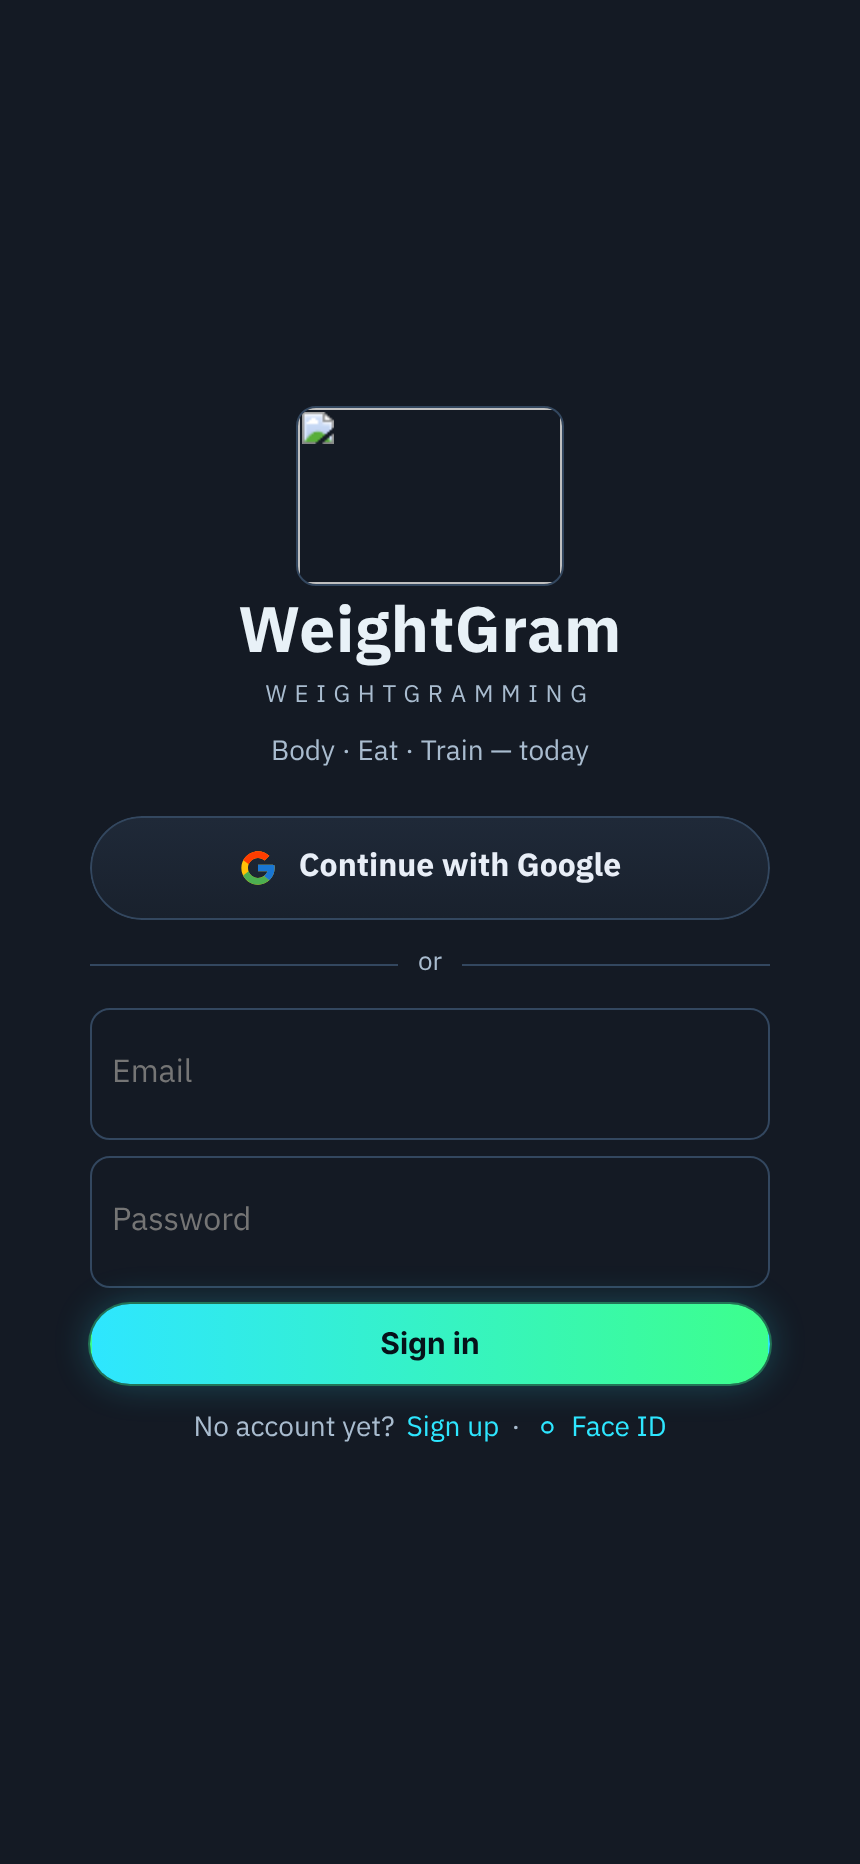
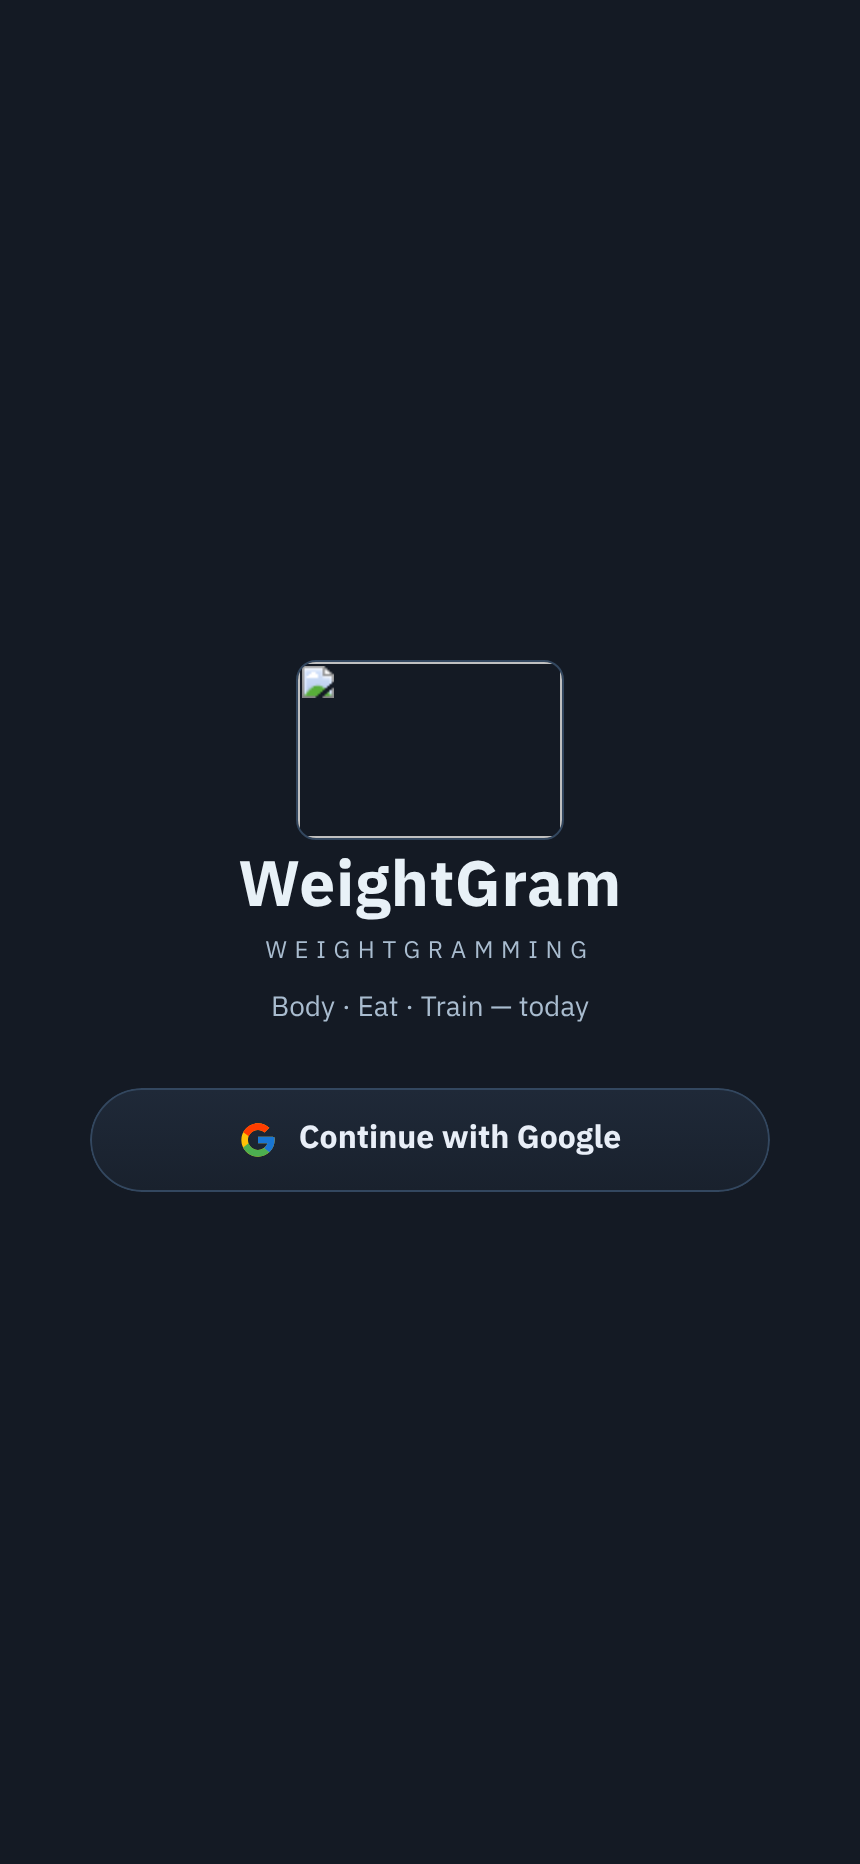
Login: Google only for now (#205)
* docs: Today critique snapshot + redesign intent

Claude-Session: https://claude.ai/code/session_01TA1QFnqgBxBRFsiXemJ9Lg

* chore: ignore impeccable live-server state

Claude-Session: https://claude.ai/code/session_01TA1QFnqgBxBRFsiXemJ9Lg

* Today: plan first, one start button, inline meal tick, folded recovery

Claude-Session: https://claude.ai/code/session_01TA1QFnqgBxBRFsiXemJ9Lg

* docs: merge PR automatically once npm test passes

Claude-Session: https://claude.ai/code/session_01TA1QFnqgBxBRFsiXemJ9Lg

* docs: no OK wait between steps

Claude-Session: https://claude.ai/code/session_01TA1QFnqgBxBRFsiXemJ9Lg

* Today: recovery-aware start, undo on meal tick, progress bars, direct start

Claude-Session: https://claude.ai/code/session_01TA1QFnqgBxBRFsiXemJ9Lg

* Today: rested program leads, rest-day exit, inline meal cancel, over-target bar

Claude-Session: https://claude.ai/code/session_01TA1QFnqgBxBRFsiXemJ9Lg

* Today: body weight + 7-day change + weigh-in in the body card

Claude-Session: https://claude.ai/code/session_01TA1QFnqgBxBRFsiXemJ9Lg

* Today: body card shows weight, muscle mass and body fat

Claude-Session: https://claude.ai/code/session_01TA1QFnqgBxBRFsiXemJ9Lg

* Today: weigh-in opens the full body-log sheet

Claude-Session: https://claude.ai/code/session_01TA1QFnqgBxBRFsiXemJ9Lg

* Today: headline matches suggestion, inline cancel, blank weigh-in, fits above tab bar

Claude-Session: https://claude.ai/code/session_01TA1QFnqgBxBRFsiXemJ9Lg
[…]

diff --git a/public/index.html b/public/index.html
@@ -8,11 +8,11 @@
 <meta name="apple-mobile-web-app-status-bar-style" content="black-translucent">
 <meta name="apple-mobile-web-app-title" content="WeightGram">
 <link rel="manifest" href="/manifest.webmanifest">
-<link rel="apple-touch-icon" href="/apple-touch-icon.png?v=138629">
+<link rel="apple-touch-icon" href="/apple-touch-icon.png?v=138630">
 <title>WeightGram</title>
 <link rel="stylesheet" href="https://fonts.googleapis.com/css2?family=IBM+Plex+Sans+Thai:wght@400;500;700&family=IBM+Plex+Mono:wght@400;500&family=Share+Tech+Mono&display=swap">
 <style>:root{padding-top:env(safe-area-inset-top,0px);padding-bottom:env(safe-area-inset-bottom,0px)}*{-webkit-tap-highlight-color:transparent}body{margin:0;font-size:var(--t-sm);font-family:system-ui,sans-serif}img{max-width:100%}[hidden]{display:none!important}</style>
-<link rel="stylesheet" href="/css/app.css?v=138629">
+<link rel="stylesheet" href="/css/app.css?v=138630">
 </head><body>
 
 <div class="wrap">
@@ -283,37 +283,37 @@
   </div>
 </div>
 
-<script src="/js/core.js?v=138629"></script>
-<script src="/js/food.js?v=138629"></script>
-<script src="/js/locations.js?v=138629"></script>
-<script src="/js/programs.js?v=138629"></script>
-<script src="/js/run.js?v=138629"></script>
-<script src="/js/workout.js?v=138629"></script>
-<script src="/js/exercise-edit.js?v=138629"></script>
-<script src="/js/edit-tx.js?v=138629"></script>
-<script src="/js/exercise-library.js?v=138629"></script>
-<script src="/js/program-manager.js?v=138629"></script>
-<script src="/js/hero.js?v=138629"></script>
-<script src="/js/rest-timer.js?v=138629"></script>
-<script src="/js/auth.js?v=138629"></script>
-<script src="/js/push.js?v=138629"></script>
-<script src="/js/data-io.js?v=138629"></script>
-<script src="/js/sync.js?v=138629"></script>
-<script src="/js/muscle-map.js?v=138629"></script>
-<script src="/js/progress.js?v=138629"></script>
-<script src="/js/history-chart.js?v=138629"></script>
-<script src="/js/stats-extra.js?v=138629"></script>
-<script src="/js/meal-plan.js?v=138629"></script>
-<script src="/js/undo.js?v=138629"></script>
-<script src="/js/home.js?v=138629"></script>
-<script src="/js/share.js?v=138629"></script>
-<script src="/js/explore.js?v=138629"></script>
-<script src="/js/onboarding.js?v=138629"></script>
-<script src="/js/account.js?v=138629"></script>
-<script src="/js/share-card.js?v=138629"></script>
-<script src="/js/number-pad.js?v=138629"></script>
-<script src="/js/refresh.js?v=138629"></script>
-<script src="/js/app.js?v=138629"></script>
+<script src="/js/core.js?v=138630"></script>
+<script src="/js/food.js?v=138630"></script>
+<script src="/js/locations.js?v=138630"></script>
+<script src="/js/programs.js?v=138630"></script>
+<script src="/js/run.js?v=138630"></script>
+<script src="/js/workout.js?v=138630"></script>
+<script src="/js/exercise-edit.js?v=138630"></script>
+<script src="/js/edit-tx.js?v=138630"></script>
+<script src="/js/exercise-library.js?v=138630"></script>
+<script src="/js/program-manager.js?v=138630"></script>
+<script src="/js/hero.js?v=138630"></script>
+<script src="/js/rest-timer.js?v=138630"></script>
+<script src="/js/auth.js?v=138630"></script>
+<script src="/js/push.js?v=138630"></script>
+<script src="/js/data-io.js?v=138630"></script>
+<script src="/js/sync.js?v=138630"></script>
+<script src="/js/muscle-map.js?v=138630"></script>
+<script src="/js/progress.js?v=138630"></script>
+<script src="/js/history-chart.js?v=138630"></script>
+<script src="/js/stats-extra.js?v=138630"></script>
+<script src="/js/meal-plan.js?v=138630"></script>
+<script src="/js/undo.js?v=138630"></script>
+<script src="/js/home.js?v=138630"></script>
+<script src="/js/share.js?v=138630"></script>
+<script src="/js/explore.js?v=138630"></script>
+<script src="/js/onboarding.js?v=138630"></script>
+<script src="/js/account.js?v=138630"></script>
+<script src="/js/share-card.js?v=138630"></script>
+<script src="/js/number-pad.js?v=138630"></script>
+<script src="/js/refresh.js?v=138630"></script>
+<script src="/js/app.js?v=138630"></script>
 
 <div id="rec-wrap" class="stack" style="gap:10px" hidden><div class="rcf-head"><div class="sec-t" data-i="การฟื้นตัวของกล้ามเนื้อ">การฟื้นตัวของกล้ามเนื้อ</div><button class="btn sm" id="rec-cfg">⚙ <span data-i="ตั้งเวลาฟื้นตัว">ตั้งเวลาฟื้นตัว</span></button></div><div class="card" id="rec-body"></div></div>
 </body></html>

diff --git a/public/js/account.js b/public/js/account.js
@@ -19,7 +19,7 @@ async function acctBoot(){let st;try{st=await acctStatus()}catch(e){cloudLoad();
   if(!PROFILE&&!ME.owner)openOnboarding()}
 /* ---- sign in ---- */
 function showLogin(){const m=document.getElementById("login");m.hidden=false;acctSetMode("login");
-  if(window.PublicKeyCredential)document.getElementById("passkey-login").hidden=false;
+  
   const gid=window.GOOGLE_CLIENT_ID;if(gid&&!document.getElementById("g-btn").dataset.on){
     const s=document.createElement("script");s.src="https://accounts.google.com/gsi/client";s.async=true;s.onload=()=>{try{
       google.accounts.id.initialize({client_id:gid,callback:r=>acctPost("/api/auth/google",{credential:r.credential})});

diff --git a/public/css/app.css b/public/css/app.css
@@ -1608,3 +1608,6 @@ body:has(#rest:not([hidden])) .tabbar{display:none!important}
 .acct-fid{width:100%;height:52px;border-radius:999px!important;display:flex;align-items:center;justify-content:center;gap:10px;font:600 16px/1 var(--f-body)!important;margin-top:10px}
 .acct-fid[hidden]{display:none!important}
 .field-err{text-align:left}.le-in[aria-invalid="true"]:focus{outline-color:#ff8a80!important;box-shadow:0 0 0 2px #ff8a80!important}
+/* Google-only sign-in for now (email/password + Face ID hidden; LINE/Facebook later) */
+#login .acct-or,#login #login-form,#login .acct-sw,#login #passkey-login{display:none!important}
+#login .g-wrap{margin-top:8px}

diff --git a/docs/work/2026-11-21-train-calm/plan-google-only.md b/docs/work/2026-11-21-train-calm/plan-google-only.md
@@ -1,0 +1,3 @@
+# Google-only sign-in
+- [x] hide email/password form, sign up link, Face ID; only Continue with Google
+- [x] server auth routes untouched (existing accounts still valid)
